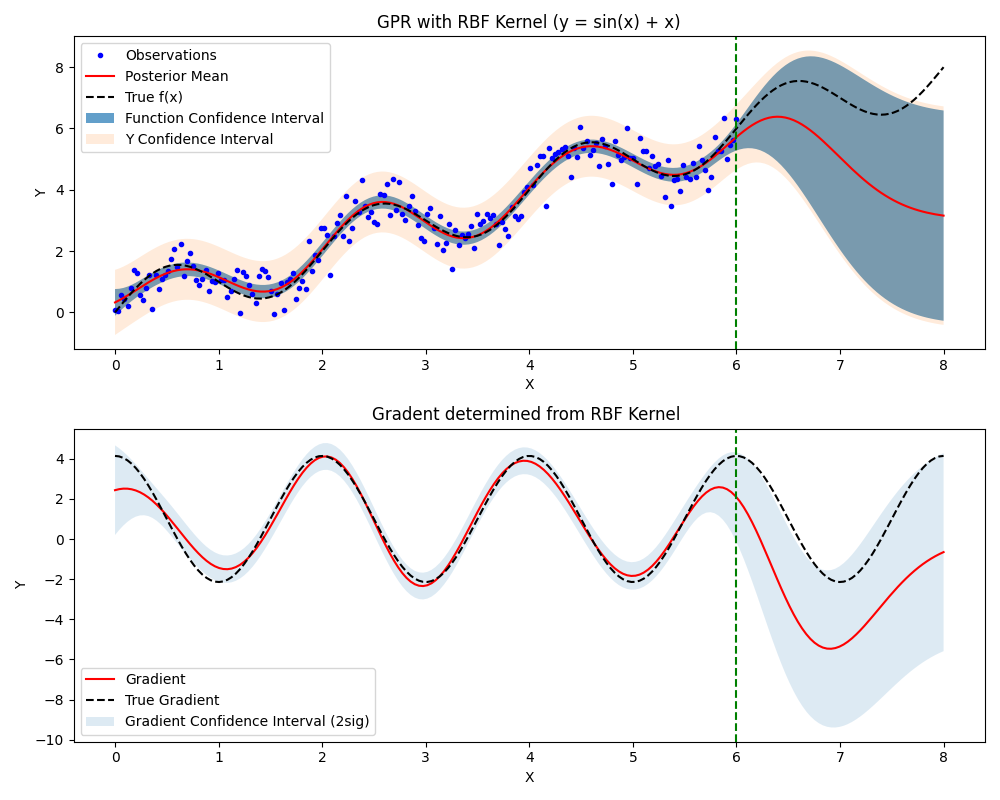
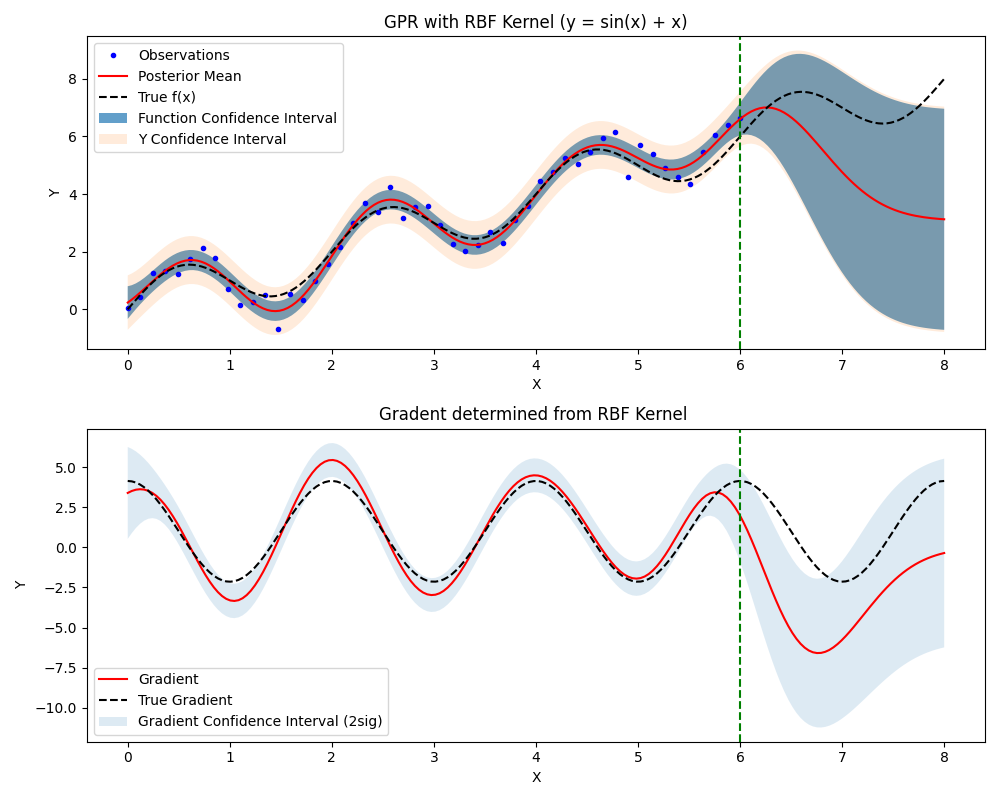
3 plots done for stage 2.

diff --git a/stage2_m52_hybrid.py b/stage2_m52_hybrid.py
@@ -1,0 +1,131 @@
+import math
+import numpy as np
+import torch
+import gpytorch as gp
+import matplotlib.pyplot as plt
+from gp_simple import hybrid_example # my GP
+
+
+def det(tensor):
+    return tensor.detach().numpy()
+
+def main():
+    # underlying function + noise
+    start_x = 0
+    end_x = 6
+    n_training_points = 50
+    training_x = torch.linspace(start_x,end_x,n_training_points) # requires_grad to track gradient
+    rng = np.random.default_rng(0)  # random reproducible noise
+    noise = rng.normal(loc=0.0, scale=0.5, size=training_x.shape)
+    noise = torch.tensor(noise, dtype=training_x.dtype)
+    training_y = torch.sin(math.pi*training_x) + training_x + noise
+
+    # define our GPs and gaussian likelihood
+    hybrid_gauss_likelihood = gp.likelihoods.GaussianLikelihood()
+    hybrid_model = hybrid_example(training_x, training_y, hybrid_gauss_likelihood)
+
+    # find the optimal hyperparameters (mean, cov, etc.)
+    hybrid_model.train()
+    hybrid_gauss_likelihood.train()
+    hybrid_optimizer = torch.optim.Adam(
+        list(hybrid_model.parameters()) + list(hybrid_gauss_likelihood.parameters()),
+        lr=0.05
+    )
+    # Marginal Log Likelihood:
+    # - finds probability of the function found by GP by comparing to sampled data.
+    hybrid_mll = gp.mlls.ExactMarginalLogLikelihood(hybrid_gauss_likelihood,hybrid_model)
+    n_samples = 200
+    for i in range(n_samples):
+        hybrid_optimizer.zero_grad() # needed to feed the hybrid_model only the CURRENTLY accumulated gradient
+        hybrid_output = hybrid_model(training_x)
+        hybrid_loss = -hybrid_mll(hybrid_output, training_y)
+        hybrid_loss.backward()
+        print(f"Iteration: {i}, hybrid Loss: {round(hybrid_loss.item(),4)}")
+        hybrid_optimizer.step()
+
+    # 1) Evaluate the Gradient now that we have our trained GPR
+    hybrid_model.eval()
+    hybrid_gauss_likelihood.eval()
+
+    with torch.enable_grad(), gp.settings.fast_pred_var(): 
+        # 2) Adjust test_x throughout the range and create a prediction Y_pred_hybrid
+        test_x = torch.linspace(start_x, end_x + 2,n_samples, dtype=training_x.dtype, requires_grad=True)        
+        # 3) get predicted output Y  and f(x) trained on test_x data
+        y_pred_hybrid = hybrid_gauss_likelihood(hybrid_model(test_x))
+        y_lower_hybrid, y_upper_hybrid = y_pred_hybrid.confidence_region()
+        f_pred_hybrid = hybrid_model(test_x)
+        f_lower_hybrid, f_upper_hybrid = f_pred_hybrid.confidence_region()
+        # ----  Hybrid (Matern 5/2 + Linear) Gradient ----
+        additive = hybrid_model.covar_module.base_kernel
+        linear_kernel = additive.kernels[0]
+        matern_kernel = additive.kernels[1]
+        linear_var = linear_kernel.variance.detach()
+        c = linear_kernel.offset.detach() if hasattr(linear_kernel, 'offset') else torch.tensor(0.0)
+        l = matern_kernel.lengthscale.detach().squeeze()
+        outputscale = hybrid_model.covar_module.outputscale.detach()
+
+        diff_r = test_x.unsqueeze(1) - training_x.unsqueeze(0) 
+        r = torch.abs(diff_r)
+        rt5 = math.sqrt(5)
+        matern_grad = -(5.0/(3*l**2))*diff_r*(1+rt5*r/l)*torch.exp(-rt5*r/l)
+
+        # find gradients individually
+        linear_grad = linear_var * (training_x.unsqueeze(0) - c)  # [1, n_train]
+        grad_K_xstar_x = outputscale*matern_grad + linear_grad
+
+        # grad_mean
+        obs_noise = hybrid_gauss_likelihood.noise.detach()
+        K_xx = hybrid_model.covar_module(training_x, training_x).evaluate().detach()
+        K_xx_noisy = K_xx + obs_noise * torch.eye(len(training_x))
+        alpha = torch.linalg.solve(K_xx_noisy, training_y)
+        grad_mean = grad_K_xstar_x @ alpha
+
+        # grad covariance (for bounds)
+        r_star = torch.abs(test_x.unsqueeze(1) - test_x.unsqueeze(0))
+        d2K_dxstar_xstar = outputscale*(5.0/(3*l**2))*(1-rt5*r_star/l)*torch.exp(-rt5*r_star/l)
+        # linear kernel has 0 to second derivative
+
+        middle_term = torch.linalg.solve(K_xx_noisy, grad_K_xstar_x.T)
+        cov_grad = d2K_dxstar_xstar - grad_K_xstar_x @ middle_term
+        gradient_conf_bounds = 2 * torch.sqrt(cov_grad.diag().clamp(min=0))  # clamp for numerical safety
+        conf_bound_low = -gradient_conf_bounds
+        conf_bound_high = gradient_conf_bounds
+        
+        
+    # Plotting
+    # hybrid / SE
+    f, ax = plt.subplots(2, 1, figsize = (10,8))
+    ax[0].plot(training_x, training_y, 'b.', label="Observations")
+    ax[0].plot(det(test_x), det(y_pred_hybrid.mean), 'r', label="Posterior Mean")
+    ax[0].plot(det(test_x), np.sin(math.pi*det(test_x)) + np.array(det(test_x)), 'k--', label="True f(x)")
+    ax[0].fill_between(
+        det(test_x), det(f_lower_hybrid), det(f_upper_hybrid),
+        alpha=0.7,label="Function Confidence Interval"
+    )
+    ax[0].fill_between(
+        det(test_x), det(y_lower_hybrid), det(y_upper_hybrid),
+        alpha=0.15,label="Y Confidence Interval"
+    )
+    ax[0].axvline(x = end_x, color = "g", linestyle = "--")
+    ax[0].set_xlabel("X")
+    ax[0].set_ylabel("Y")
+    ax[0].set_title("GPR with hybrid Kernel (y = sin(x) + x)")
+    ax[0].legend()
+    # Derivative Plot
+    ax[1].plot(det(test_x), det(grad_mean), 'r-', label="Gradient")
+    ax[1].plot(det(test_x), math.pi*np.cos(math.pi*det(test_x)) + 1, 'k--', label="True Gradient")
+    ax[1].fill_between(
+        det(test_x),det(conf_bound_low+grad_mean), det(conf_bound_high + grad_mean), 
+        alpha = 0.15, label="Gradient Confidence Interval (2sig)"
+    )
+    ax[1].axvline(x = end_x, color = "g", linestyle = "--")
+    ax[1].set_xlabel("X")
+    ax[1].set_ylabel("Y")
+    ax[1].set_title("Gradent determined from Hybrid Kernel ")
+    ax[1].legend()
+
+    plt.tight_layout()
+    plt.show()
+
+if __name__ == "__main__":
+    main()

diff --git a/gp_simple.py b/gp_simple.py
@@ -12,8 +12,6 @@ class RBF_example(gp.models.ExactGP): # AKA squared exponential
         # large l -> strong effects from all data
         # small l -> strong effects from close points
         lengthscale_prior = gp.priors.GammaPrior(3.0, 1) # (a,b) : lengthscale = a/b
-
-        # Vertical scaling
         outputscale_prior = gp.priors.GammaPrior(4.0, .17) # (a,b) : outputscale = a/b
         self.covar_module = gp.kernels.ScaleKernel(gp.kernels.RBFKernel
                                                          (lengthscale_prior=lengthscale_prior,
@@ -32,7 +30,7 @@ class m52_example(gp.models.ExactGP):
     def __init__(self, train_x, train_y, likelihood):
         super(m52_example, self).__init__(train_x, train_y, likelihood)
         self.mean_module = gp.means.ConstantMean()
-        lengthscale_prior = gp.priors.GammaPrior(concentration=3.0, rate=1.0) # (a,b) : a/b = mean, a/b^2 = covariance
+        lengthscale_prior = gp.priors.GammaPrior(concentration=3.0, rate=1.5) # (a,b) : a/b = mean, a/b^2 = covariance
         outputscale_prior = gp.priors.GammaPrior(4.0, 0.17) # (a,b) : a/b = covariance
         self.covar_module = gp.kernels.ScaleKernel(gp.kernels.MaternKernel
                                                         (lengthscale_prior=lengthscale_prior,
@@ -48,11 +46,13 @@ class hybrid_example(gp.models.ExactGP):
     def __init__(self, train_x, train_y, likelihood):
         super(hybrid_example, self).__init__(train_x, train_y, likelihood)
         self.mean_module = gp.means.ConstantMean()
-        lengthscale_prior = gp.priors.GammaPrior(concentration=3.0, rate=6.0) # set by tutorial
-        outputscale_prior = gp.priors.GammaPrior(2.0, 0.15) # set by tutorial
+        lengthscale_prior = gp.priors.GammaPrior(concentration=3.0, rate=5.8) # set by tutorial
+        outputscale_prior = gp.priors.GammaPrior(1.0, .17) # set by tutorial
         linear_kern = gp.kernels.LinearKernel()
         matern_kern = gp.kernels.MaternKernel(lengthscale_prior = lengthscale_prior, outputscale_prior = outputscale_prior)
-        self.covar_module = gp.kernels.ScaleKernel(gp.kernels.AdditiveKernel(linear_kern + matern_kern))
+        self.covar_module = gp.kernels.ScaleKernel(
+            gp.kernels.AdditiveKernel(linear_kern, matern_kern)
+        )
     def forward(self, x):
         mean = self.mean_module(x)
         covar = self.covar_module(x)

diff --git a/stage2_m52_gradient.py b/stage2_m52_gradient.py
@@ -10,7 +10,6 @@ Stage 2 Takeaways:
  - In the posterior mean function, only the kernel is dependent on the input variables, and to get gradient we just differentiate kernel.
  - Accomplish gradient calc by running torch.backwards() on our model at different test_x.
  - X = linalg.solve(A,y) -> X = A^-1 y
-
 '''
 
 
@@ -79,31 +78,26 @@ def main():
 
         # 5) alpha = [K_noisy(x_train, x_train) + sigma^2 * I]^-1 @ y 
         K_xx = m52_model.covar_module(training_x,training_x).evaluate().detach()
-        noise = m52_gauss_likelihood.noise.detach()
-        K_xx_noisy = K_xx + noise*torch.eye(len(training_x)) # K + variance*I
+        obs_noise = m52_gauss_likelihood.noise.detach()
+        K_xx_noisy = K_xx + obs_noise*torch.eye(len(training_x)) # K + variance*I
         print(f"K_xx_noisy {K_xx_noisy.size()}\n")
 
         # K alpha = y
         # alpha = K^-1 * y
         alpha = torch.linalg.solve(K_xx_noisy, training_y) 
-        print(f"alpha {alpha.size()}\n")
         # Grad mean
         grad_mean = grad_K_xstar_x @ alpha # [grad_K][alpha]
         K_xstar_xstar = m52_model.covar_module(test_x,test_x).evaluate().detach()
-        print(f"K_xstar_xstar {K_xstar_xstar.size()}\n")
-
         # Finding d2K(x*, x*)
         r_star = torch.abs(test_x.unsqueeze(1) - test_x.unsqueeze(0))
-        d2K_dxstar_xstar = -(5/(3*l**2)) * sigma2 * (1 + rt5*r_star/l - 5*r_star**2/l**2) * torch.exp(-rt5*r_star/l)
+        d2K_dxstar_xstar = -(5/(3*l**2))*sigma2 * (1 + rt5*r_star/l - 5*r_star**2/l**2) * torch.exp(-rt5*r_star/l)
         grad2_K_xstar_xstar = - d2K_dxstar_xstar 
 
         middle_term =torch.linalg.solve(K_xx_noisy, grad_K_xstar_x.T) # K^-1 ^ grad_K(x*,x)
-
         cov_grad_K = grad2_K_xstar_xstar -grad_K_xstar_x @ middle_term
         gradient_conf_bounds = 2 * torch.sqrt(cov_grad_K.diag())
         conf_bound_low = -gradient_conf_bounds
         conf_bound_high = gradient_conf_bounds
-        print(gradient_conf_bounds)
         
         
     # Plotting

diff --git a/stage2_SE_gradient.py b/stage2_SE_gradient.py
@@ -21,7 +21,7 @@ def main():
     # underlying function + noise
     start_x = 0
     end_x = 6
-    n_training_points = 200
+    n_training_points = 50
     training_x = torch.linspace(start_x,end_x,n_training_points) # requires_grad to track gradient
     rng = np.random.default_rng(0)  # random reproducible noise
     noise = rng.normal(loc=0.0, scale=0.5, size=training_x.shape)

diff --git a/README.md b/README.md
@@ -34,3 +34,9 @@ Discuss the effect of kernel smoothness.
  - does GP have applications to aerodynamics or complex, difficult to model dynamics?
 
  - Why is there no gradient terms left in higher order differentiation?
+
+ # Takeaways:
+
+Stage 2 Takeaways:
+ - In the posterior mean function, only the kernel is dependent on the input variables, and to get gradient we just differentiate kernel.
+ - Accomplish gradient calc by running torch.backwards() on our model at different test_x.
